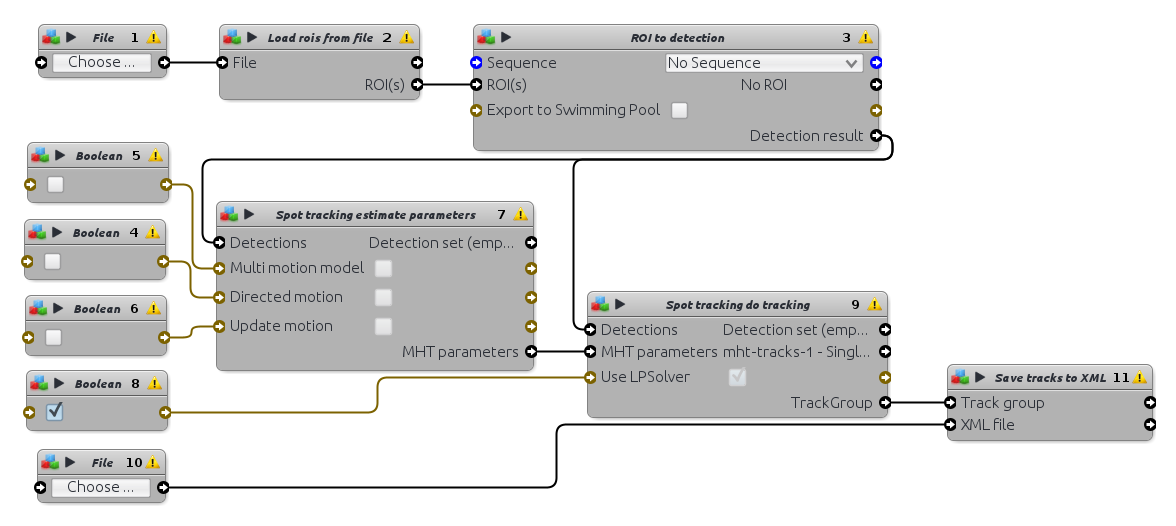
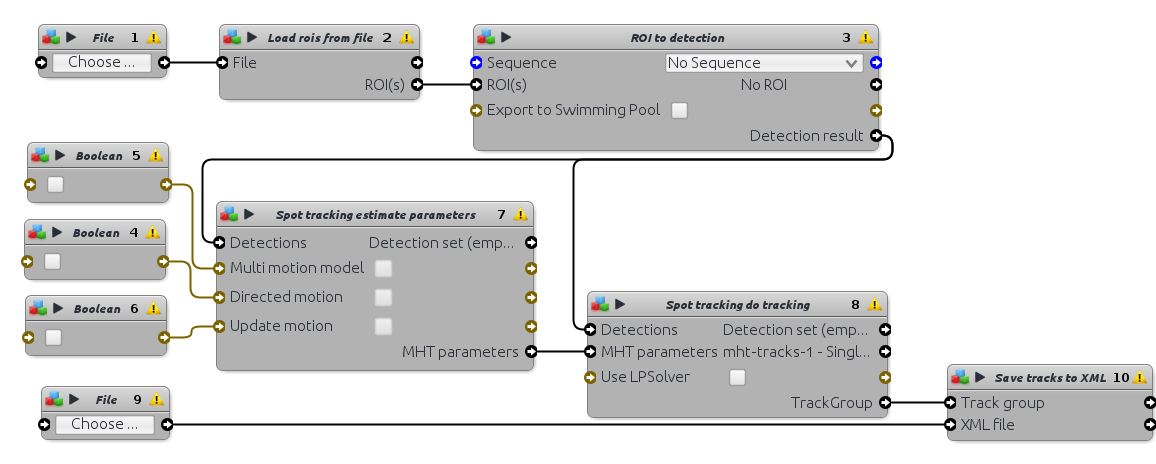
Drop lpsolver usage in icy (deprecated, unreliable though faster)
Fix a small bug for 1px detections sent to icy (bytes(tensor) fails if the tensor is a single element)

diff --git a/byotrack/icy/io.py b/byotrack/icy/io.py
@@ -66,7 +66,7 @@ def save_detections(detections_sequence: Collection[byotrack.Detections], path: 
             ET.SubElement(roi, "boundsH").text = str(height)
 
             # The mask is converted into bytes and zipped
-            compressed_bytes = zlib.compress(bytes(mask.reshape(height * width)), 2)
+            compressed_bytes = zlib.compress(bytes(mask.reshape(height * width).numpy()), 2)
 
             # and then converted to the good string format: byte:byte:...:byte
             ET.SubElement(roi, "boolMaskData").text = ":".join(map(lambda byte: hex(byte)[2:], compressed_bytes))

diff --git a/byotrack/__init__.py b/byotrack/__init__.py
@@ -79,4 +79,4 @@ from byotrack.api.tracks import Track
 from byotrack.video import Video, VideoTransformConfig
 
 
-__version__ = "0.2.2"
+__version__ = "0.2.3"
